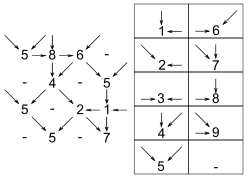
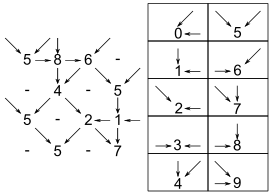
fixed the zero on the legend

diff --git a/index.html b/index.html
@@ -179,10 +179,11 @@
                     <a id="digitsShow" href="javascript:showOptions('digits')">show legend</a>
                     <div id="digits" class="hidden">
                     <a href="javascript:hideOptions('digits')">(hide legend)</a><br>
-                    Each digit defines two pairs<br/>
-                    arriving at a grid position.<br/><img src="images/legend.png"><br/>
-                    Try the <a href="index.html?rows=11&cols=9&&shiftLeft=1&shiftUp=1&matrix=586-%0D%0A-4-5%0D%0A5-21%0D%0A-5-7"
-                    >example</a>.
+                    Each digit defines two pairs arriving<br/>
+                    at a grid position. A dash means a not<br/>
+                    used position. Try the <a href="index.html?rows=11&cols=9&&shiftLeft=1&shiftUp=1&matrix=586-%0D%0A-4-5%0D%0A5-21%0D%0A-5-7"
+                    >example</a>.<br/>
+                    <img src="images/legend.png"><br/>
                 </div>
                 </fieldset>
             </fieldset>
